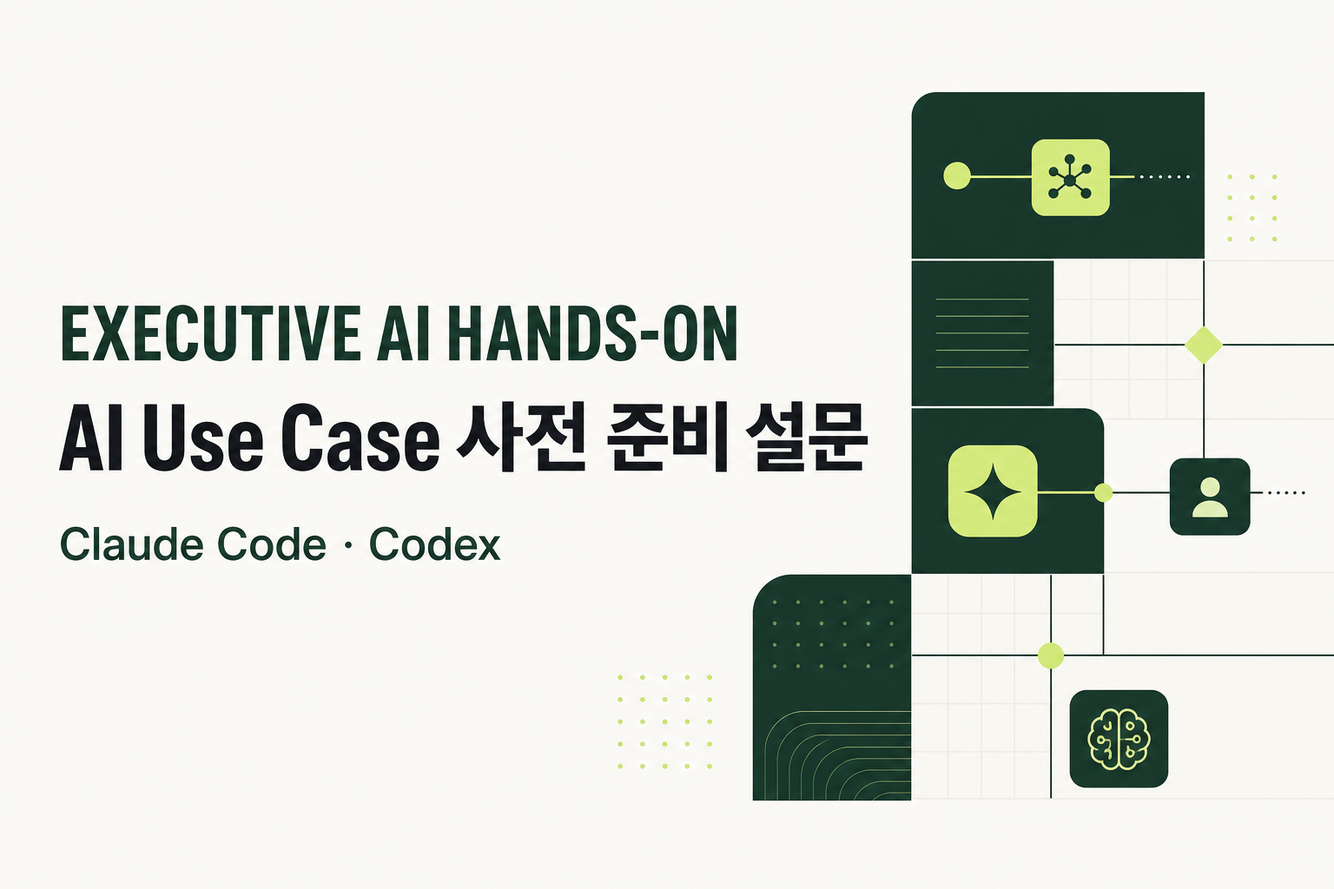
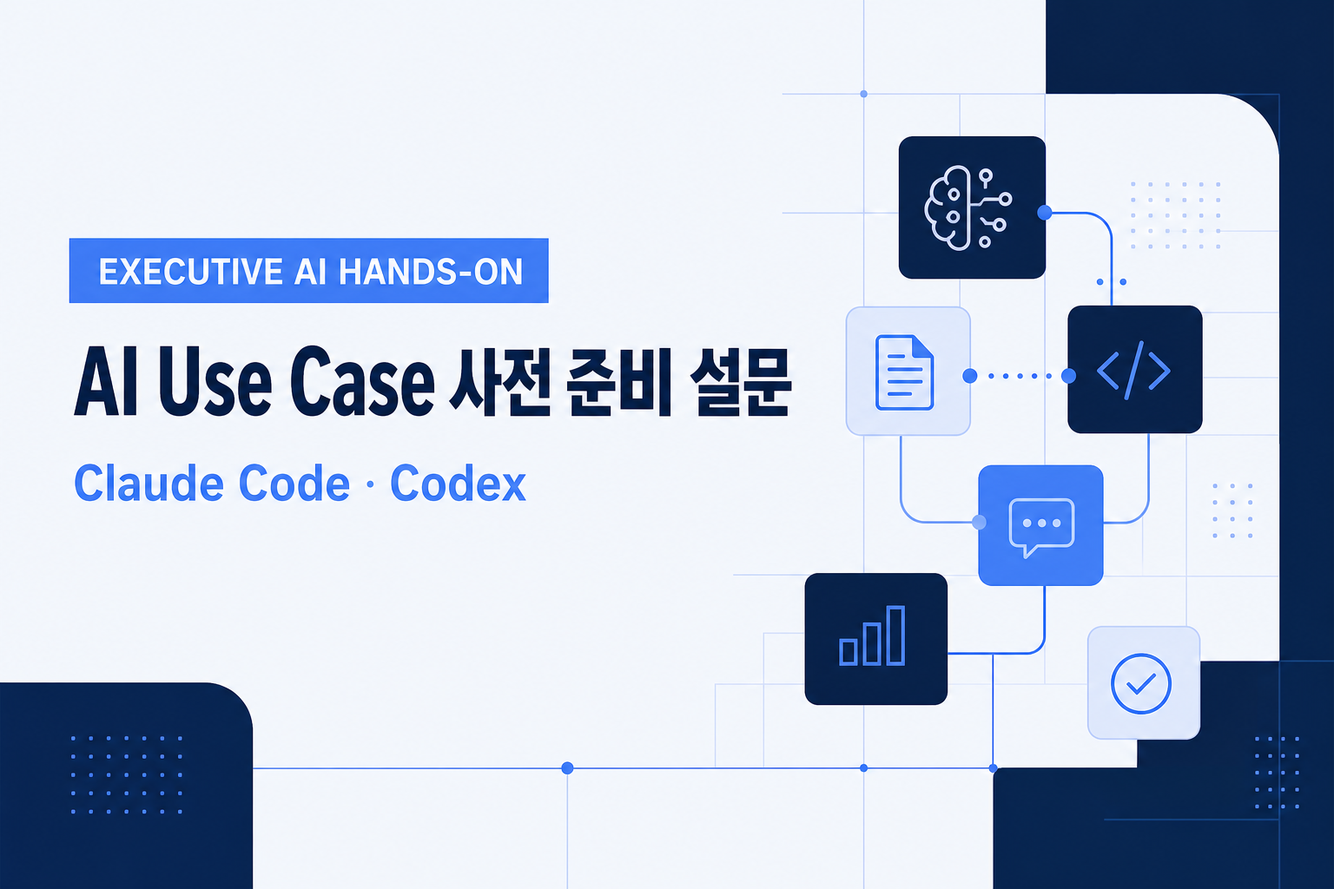
Refine survey flow and adopt blue visual theme

diff --git a/app/globals.css b/app/globals.css
@@ -1,47 +1,45 @@
 @import "tailwindcss";
 
-:root { --ink:#132323; --muted:#60706f; --line:#dce3df; --paper:#f5f7f3; --white:#fff; --lime:#c8f65a; --lime-dark:#a7d93a; --forest:#193b32; --error:#b42318; }
+:root { --ink:#0d1b34; --muted:#60708a; --line:#d9e2f0; --paper:#f3f6fb; --white:#fff; --accent:#5d8cff; --accent-soft:#eaf0ff; --navy:#102a56; --navy-deep:#0a1c3d; --error:#b42318; }
 * { box-sizing:border-box; }
 html { scroll-behavior:smooth; }
 body { margin:0; background:var(--paper); color:var(--ink); font-family:Arial,"Apple SD Gothic Neo","Noto Sans KR",sans-serif; }
 button,input,select,textarea { font:inherit; }
 button { cursor:pointer; }
-.site-header { height:78px; padding:0 clamp(24px,5vw,80px); display:flex; align-items:center; gap:12px; border-bottom:1px solid var(--line); background:rgba(245,247,243,.94); }
-.brand-mark { width:34px; height:34px; display:grid; place-items:center; border-radius:8px; background:var(--forest); color:var(--lime); font-weight:900; font-size:17px; }
+.site-header { height:78px; padding:0 clamp(24px,5vw,80px); display:flex; align-items:center; gap:12px; border-bottom:1px solid var(--line); background:rgba(243,246,251,.94); }
+.brand-mark { width:34px; height:34px; display:grid; place-items:center; border-radius:8px; background:var(--navy); color:#b9ceff; font-weight:900; font-size:17px; }
 .brand-name { margin:0; font-size:12px; font-weight:800; letter-spacing:.14em; }
 .brand-sub { margin:2px 0 0; color:var(--muted); font-size:12px; }
-.time-badge { margin-left:auto; padding:7px 12px; border:1px solid #cdd6d1; border-radius:999px; color:#42514f; font-size:12px; font-weight:700; }
+.time-badge { margin-left:auto; padding:7px 12px; border:1px solid #cbd7ea; border-radius:999px; color:#425474; font-size:12px; font-weight:700; }
 .page-shell { max-width:1420px; min-height:calc(100vh - 78px); margin:0 auto; display:grid; grid-template-columns:minmax(340px,.82fr) minmax(560px,1.18fr); }
 .intro-panel { position:sticky; top:0; align-self:start; min-height:calc(100vh - 78px); padding:clamp(56px,7vw,108px) clamp(36px,6vw,92px); border-right:1px solid var(--line); display:flex; flex-direction:column; justify-content:center; }
-.eyebrow { margin:0 0 18px; color:#557626; font-size:11px; font-weight:900; letter-spacing:.18em; }
+.eyebrow { margin:0 0 18px; color:#416fc7; font-size:11px; font-weight:900; letter-spacing:.18em; }
 .intro-panel h1 { margin:0; max-width:590px; font-size:clamp(38px,4.5vw,66px); line-height:1.08; letter-spacing:-.052em; }
-.intro-panel h1 em { color:#466b19; font-style:normal; }
-.intro-copy { max-width:590px; margin:30px 0 34px; color:#52615f; font-size:16px; line-height:1.8; word-break:keep-all; }
-.guide-card { display:flex; gap:15px; align-items:flex-start; padding:20px; border:1px solid #d9e5cd; border-radius:16px; background:#eff7df; }
-.guide-icon { flex:0 0 32px; width:32px; height:32px; display:grid; place-items:center; border-radius:9px; background:var(--lime); color:#284215; }
-.guide-card strong { font-size:14px; }.guide-card p { margin:6px 0 0; color:#526451; font-size:13px; line-height:1.55; }
-.privacy-note { display:flex; gap:10px; margin-top:22px; color:#7a8785; font-size:12px; line-height:1.55; }.privacy-note p { margin:0; }
+.intro-panel h1 em { color:#3266c4; font-style:normal; }
+.intro-copy { max-width:590px; margin:30px 0 32px; color:#586982; font-size:16px; line-height:1.8; word-break:keep-all; }
+.privacy-note { display:flex; gap:10px; padding-top:22px; border-top:1px solid #dbe4f2; color:#78869c; font-size:12px; line-height:1.55; }.privacy-note p { margin:0; }
 .form-panel { padding:clamp(42px,6vw,86px) clamp(32px,6vw,88px); background:var(--white); }
 .progress-head { display:flex; justify-content:space-between; align-items:end; }.progress-head div { display:grid; gap:6px; }.progress-head span { color:#71807e; font-size:10px; font-weight:800; letter-spacing:.16em; }.progress-head strong { font-size:14px; }.progress-head b { font-size:12px; color:#5f6e6b; }
-.progress-track { height:4px; margin-top:16px; overflow:hidden; border-radius:99px; background:#edf0ee; }.progress-track div { height:100%; border-radius:99px; background:var(--forest); transition:width .35s ease; }
+.progress-track { height:4px; margin-top:16px; overflow:hidden; border-radius:99px; background:#e9eef6; }.progress-track div { height:100%; border-radius:99px; background:var(--navy); transition:width .35s ease; }
 .step-content { display:grid; gap:26px; padding:48px 0 16px; animation:fade .28s ease; } @keyframes fade { from{opacity:.25;transform:translateY(7px)}to{opacity:1;transform:none} }
 .section-heading { margin-bottom:2px; }.section-heading h2 { margin:0; font-size:clamp(25px,2.6vw,34px); letter-spacing:-.035em; }.section-heading p { margin:10px 0 0; color:var(--muted); font-size:14px; line-height:1.6; }
 .two-col { display:grid; grid-template-columns:1fr 1fr; gap:18px; }
-label { display:block; }.field-label { display:flex; align-items:center; gap:8px; margin-bottom:9px; font-size:13px; font-weight:800; }.field-label small { color:#81908e; font-weight:500; }.required,.optional { padding:2px 6px; border-radius:5px; font-size:9px; }.required { color:#47621f; background:#edf7d8; }.optional { color:#7b8785; background:#f0f2f1; }
-input,select,textarea { width:100%; border:1px solid #ccd5d1; border-radius:11px; background:#fff; color:var(--ink); outline:none; transition:border-color .18s,box-shadow .18s; }
+label { display:block; }.field-label { display:flex; align-items:center; gap:8px; margin-bottom:9px; font-size:13px; font-weight:800; }.field-label small { color:#8190a8; font-weight:500; }.required,.optional { padding:2px 6px; border-radius:5px; font-size:9px; }.required { color:#2856aa; background:#e9f0ff; }.optional { color:#7b8799; background:#f0f3f7; }
+input,select,textarea { width:100%; border:1px solid #cbd6e7; border-radius:11px; background:#fff; color:var(--ink); outline:none; transition:border-color .18s,box-shadow .18s; }
 input,select { height:50px; padding:0 14px; } textarea { min-height:96px; padding:14px; line-height:1.6; resize:vertical; }.large-textarea { min-height:142px; }
-input:focus,select:focus,textarea:focus { border-color:#668b2c; box-shadow:0 0 0 3px rgba(147,190,65,.15); } input::placeholder,textarea::placeholder { color:#9aa5a2; }
+input:focus,select:focus,textarea:focus { border-color:#4f7fe0; box-shadow:0 0 0 3px rgba(79,127,224,.14); } input::placeholder,textarea::placeholder { color:#9aa6b7; }
+.conditional-input { margin-top:10px; background:#f8faff; }
 .char-count { display:block; margin-top:6px; text-align:right; color:#899592; font-size:11px; }
-.mini-tip { display:flex; align-items:flex-start; gap:10px; padding:16px; border-radius:12px; background:#f4f6f3; }.mini-tip b { padding:3px 6px; border-radius:4px; background:#223f37; color:#fff; font-size:9px; letter-spacing:.08em; }.mini-tip p { margin:0; color:#61706e; font-size:12px; line-height:1.55; }
-fieldset { margin:0; padding:0; border:0; }.choice-list,.choice-grid { display:grid; gap:9px; }.choice-grid { grid-template-columns:1fr 1fr; }.radio-card { position:relative; min-height:48px; padding:14px 15px; border:1px solid #d5dcd9; border-radius:11px; color:#42514f; font-size:13px; font-weight:600; }.radio-card input { position:absolute; opacity:0; width:1px; height:1px; }.radio-card.selected { border-color:#5a7f28; background:#f1f8e3; color:#294417; box-shadow:inset 0 0 0 1px #7aa63a; }
-.chip-grid { display:flex; flex-wrap:wrap; gap:9px; }.check-chip { position:relative; padding:10px 14px; border:1px solid #d4dcd8; border-radius:999px; color:#51605e; font-size:13px; }.check-chip input { position:absolute; opacity:0; width:1px; height:1px; }.check-chip.selected { border-color:#345b31; background:#203e35; color:#fff; }.check-chip:has(input:disabled) { opacity:.45; }
-.usecase-heading { display:flex; justify-content:space-between; gap:18px; align-items:flex-start; }.example-button { flex:none; padding:11px 13px; border:1px solid #bfd88b; border-radius:9px; background:#f2f9e4; color:#42631e; font-size:12px; font-weight:800; }
-.form-actions { display:flex; justify-content:flex-end; gap:10px; margin-top:28px; padding-top:25px; border-top:1px solid #e5e9e7; }.primary-button,.back-button,.secondary-button { min-height:50px; padding:0 21px; border-radius:10px; font-weight:800; }.primary-button { margin-left:auto; border:0; background:var(--forest); color:#fff; }.primary-button span { margin-left:14px; color:var(--lime); }.primary-button:hover { background:#102d26; }.primary-button:disabled { cursor:wait; opacity:.7; }.back-button,.secondary-button { border:1px solid #cfd7d3; background:#fff; color:#4d5d5a; }.submit-button { min-width:185px; }
+.mini-tip { display:flex; align-items:flex-start; gap:10px; padding:16px; border-radius:12px; background:#f2f5fa; }.mini-tip b { padding:3px 6px; border-radius:4px; background:var(--navy); color:#fff; font-size:9px; letter-spacing:.08em; }.mini-tip p { margin:0; color:#61708a; font-size:12px; line-height:1.55; }
+fieldset { margin:0; padding:0; border:0; }.choice-list,.choice-grid { display:grid; gap:9px; }.choice-grid { grid-template-columns:1fr 1fr; }.radio-card { position:relative; min-height:48px; padding:14px 15px; border:1px solid #d3ddea; border-radius:11px; color:#43536e; font-size:13px; font-weight:600; }.radio-card input { position:absolute; opacity:0; width:1px; height:1px; }.radio-card.selected { border-color:#4677d7; background:#edf3ff; color:#173f86; box-shadow:inset 0 0 0 1px #6e98e9; }
+.chip-grid { display:flex; flex-wrap:wrap; gap:9px; }.check-chip { position:relative; padding:10px 14px; border:1px solid #d3ddea; border-radius:999px; color:#51617c; font-size:13px; }.check-chip input { position:absolute; opacity:0; width:1px; height:1px; }.check-chip.selected { border-color:#244e9a; background:var(--navy); color:#fff; }.check-chip:has(input:disabled) { opacity:.45; }
+.usecase-heading { display:flex; justify-content:space-between; gap:18px; align-items:flex-start; }.example-button { flex:none; padding:11px 13px; border:1px solid #b8cdf6; border-radius:9px; background:#edf3ff; color:#285bb8; font-size:12px; font-weight:800; }
+.form-actions { display:flex; justify-content:flex-end; gap:10px; margin-top:28px; padding-top:25px; border-top:1px solid #e3e9f2; }.primary-button,.back-button,.secondary-button { min-height:50px; padding:0 21px; border-radius:10px; font-weight:800; }.primary-button { margin-left:auto; border:0; background:var(--navy); color:#fff; }.primary-button span { margin-left:14px; color:#b9ceff; }.primary-button:hover { background:var(--navy-deep); }.primary-button:disabled { cursor:wait; opacity:.7; }.back-button,.secondary-button { border:1px solid #cbd6e7; background:#fff; color:#4d5e78; }.submit-button { min-width:185px; }
 .form-error,.retry-note { margin:14px 0 0; color:var(--error); font-size:12px; font-weight:700; }.retry-note { padding:12px 14px; border-radius:8px; background:#fff1f0; }
-.loading-notice { display:flex; gap:14px; align-items:center; margin:18px 0 0; padding:16px; border:1px solid #cfe2a6; border-radius:12px; background:#f4fae8; }.loading-notice strong { font-size:13px; }.loading-notice p { margin:4px 0 0; color:#637056; font-size:11px; }.spinner { width:25px; height:25px; flex:0 0 25px; border:3px solid #dce9c2; border-top-color:#496c20; border-radius:50%; animation:spin .8s linear infinite; } @keyframes spin { to{transform:rotate(360deg)} }
+.loading-notice { display:flex; gap:14px; align-items:center; margin:18px 0 0; padding:16px; border:1px solid #bfd0f0; border-radius:12px; background:#edf3ff; }.loading-notice strong { font-size:13px; }.loading-notice p { margin:4px 0 0; color:#60718d; font-size:11px; }.spinner { width:25px; height:25px; flex:0 0 25px; border:3px solid #d6e1f6; border-top-color:#3465c2; border-radius:50%; animation:spin .8s linear infinite; } @keyframes spin { to{transform:rotate(360deg)} }
 .honeypot { position:absolute!important; left:-9999px!important; }
-.modal-backdrop { position:fixed; inset:0; z-index:20; display:grid; place-items:center; padding:24px; background:rgba(11,29,25,.64); backdrop-filter:blur(5px); }.example-modal { width:min(860px,100%); max-height:86vh; overflow:auto; padding:30px; border-radius:20px; background:#fff; box-shadow:0 30px 100px rgba(0,0,0,.28); }.modal-head { display:flex; justify-content:space-between; gap:20px; }.modal-head h2 { margin:0; font-size:28px; }.modal-head p:not(.eyebrow) { margin:8px 0 0; color:var(--muted); font-size:13px; }.modal-head button { width:38px; height:38px; border:0; border-radius:50%; background:#eef1ef; color:#43514f; font-size:24px; }.example-list { display:grid; grid-template-columns:1fr 1fr; gap:12px; margin-top:25px; }.example-card { padding:18px; border:1px solid #dce3df; border-radius:13px; background:#fff; text-align:left; transition:.18s; }.example-card:hover { border-color:#87a94d; background:#f7faef; transform:translateY(-2px); }.example-card span { color:#638332; font-size:10px; font-weight:900; }.example-card strong { display:block; margin:8px 0; font-size:15px; }.example-card p { margin:0; color:#657270; font-size:12px; line-height:1.55; }.example-card em { display:block; margin-top:13px; color:#34571b; font-size:11px; font-style:normal; font-weight:800; }
-.success-page { min-height:100vh; display:grid; place-items:center; padding:32px; background:radial-gradient(circle at 50% 20%,#f4fadf,#edf2eb 52%,#e6ece8); }.success-card { width:min(680px,100%); padding:60px; border:1px solid #d8e0db; border-radius:24px; background:#fff; text-align:center; box-shadow:0 24px 80px rgba(27,54,46,.1); }.success-mark { width:58px; height:58px; margin:0 auto 25px; display:grid; place-items:center; border-radius:50%; background:var(--lime); color:#264414; font-size:26px; font-weight:900; }.success-card h1 { margin:0; font-size:38px; letter-spacing:-.04em; }.success-copy { max-width:530px; margin:18px auto 28px; color:#667471; line-height:1.7; }.prep-grid { display:grid; grid-template-columns:1fr 1fr; gap:12px; margin-bottom:28px; text-align:left; }.prep-grid div { padding:19px; border-radius:12px; background:#f3f6f1; }.prep-grid span { color:#668533; font-size:10px; font-weight:900; }.prep-grid p { margin:8px 0 0; font-size:13px; line-height:1.5; }
+.modal-backdrop { position:fixed; inset:0; z-index:20; display:grid; place-items:center; padding:24px; background:rgba(8,23,52,.66); backdrop-filter:blur(5px); }.example-modal { width:min(860px,100%); max-height:86vh; overflow:auto; padding:30px; border-radius:20px; background:#fff; box-shadow:0 30px 100px rgba(0,0,0,.28); }.modal-head { display:flex; justify-content:space-between; gap:20px; }.modal-head h2 { margin:0; font-size:28px; }.modal-head p:not(.eyebrow) { margin:8px 0 0; color:var(--muted); font-size:13px; }.modal-head button { width:38px; height:38px; border:0; border-radius:50%; background:#edf1f7; color:#43536d; font-size:24px; }.example-list { display:grid; grid-template-columns:1fr 1fr; gap:12px; margin-top:25px; }.example-card { padding:18px; border:1px solid #d9e2ef; border-radius:13px; background:#fff; text-align:left; transition:.18s; }.example-card:hover { border-color:#6f96e2; background:#f3f7ff; transform:translateY(-2px); }.example-card span { color:#426fc4; font-size:10px; font-weight:900; }.example-card strong { display:block; margin:8px 0; font-size:15px; }.example-card p { margin:0; color:#65738a; font-size:12px; line-height:1.55; }.example-card em { display:block; margin-top:13px; color:#2858ac; font-size:11px; font-style:normal; font-weight:800; }
+.success-page { min-height:100vh; display:grid; place-items:center; padding:32px; background:radial-gradient(circle at 50% 20%,#edf3ff,#edf2f8 52%,#e7edf6); }.success-card { width:min(680px,100%); padding:60px; border:1px solid #d6e0ef; border-radius:24px; background:#fff; text-align:center; box-shadow:0 24px 80px rgba(18,43,86,.1); }.success-mark { width:58px; height:58px; margin:0 auto 25px; display:grid; place-items:center; border-radius:50%; background:#dce7ff; color:#204f9f; font-size:26px; font-weight:900; }.success-card h1 { margin:0; font-size:38px; letter-spacing:-.04em; }.success-copy { max-width:530px; margin:18px auto 28px; color:#66758d; line-height:1.7; }.prep-grid { display:grid; grid-template-columns:1fr 1fr; gap:12px; margin-bottom:28px; text-align:left; }.prep-grid div { padding:19px; border-radius:12px; background:#f1f5fb; }.prep-grid span { color:#4775c8; font-size:10px; font-weight:900; }.prep-grid p { margin:8px 0 0; font-size:13px; line-height:1.5; }
 @media (max-width:980px){.page-shell{grid-template-columns:1fr}.intro-panel{position:static;min-height:auto;border-right:0;border-bottom:1px solid var(--line);padding:55px 32px}.intro-panel h1{font-size:44px}.form-panel{padding:46px 32px 70px}}
 @media (max-width:640px){.site-header{height:66px;padding:0 18px}.brand-name{font-size:10px}.brand-sub{display:none}.time-badge{font-size:10px}.intro-panel{padding:42px 20px}.intro-panel h1{font-size:36px}.intro-copy{font-size:14px}.form-panel{padding:34px 20px 52px}.step-content{padding-top:38px}.two-col,.choice-grid,.example-list,.prep-grid{grid-template-columns:1fr}.usecase-heading{display:block}.example-button{margin-top:16px}.example-modal{padding:22px}.modal-head h2{font-size:23px}.success-card{padding:42px 22px}.success-card h1{font-size:30px}}
 @media (prefers-reduced-motion:reduce){*{scroll-behavior:auto!important;animation:none!important;transition:none!important}}

diff --git a/app/page.tsx b/app/page.tsx
@@ -10,7 +10,7 @@ const businessAreas = [
   "재무·리스크",
   "HR·조직",
   "R&D·데이터",
-  "기타",
+  "직접입력",
 ];
 
 const examples = [
@@ -64,14 +64,15 @@ type FormState = {
   title: string;
   email: string;
   aiExperience: string;
-  agentPreference: string;
   businessAreas: string[];
+  businessAreaOther: string;
   primaryOutcome: string;
+  primaryOutcomeOther: string;
   usecaseTitle: string;
   usecaseDescription: string;
   currentPain: string;
   desiredOutput: string;
-  availableDataTools: string;
+  desiredOutputOther: string;
   dataSensitivity: string;
   successCriteria: string;
   instructorNote: string;
@@ -84,14 +85,15 @@ const initialForm: FormState = {
   title: "",
   email: "",
   aiExperience: "",
-  agentPreference: "",
   businessAreas: [],
+  businessAreaOther: "",
   primaryOutcome: "",
+  primaryOutcomeOther: "",
   usecaseTitle: "",
   usecaseDescription: "",
   currentPain: "",
   desiredOutput: "",
-  availableDataTools: "",
+  desiredOutputOther: "",
   dataSensitivity: "",
   successCriteria: "",
   instructorNote: "",
@@ -137,14 +139,17 @@ export default function Home() {
     if (step === 2)
       return Boolean(
         form.aiExperience &&
-          form.agentPreference &&
           form.businessAreas.length &&
-          form.primaryOutcome,
+          (!form.businessAreas.includes("직접입력") || form.businessAreaOther.trim()) &&
+          form.primaryOutcome &&
+          (form.primaryOutcome !== "직접입력" || form.primaryOutcomeOther.trim()),
       );
     return Boolean(
       form.usecaseTitle &&
+        form.currentPain.trim() &&
         form.usecaseDescription.length >= 20 &&
         form.desiredOutput &&
+        (form.desiredOutput !== "직접입력" || form.desiredOutputOther.trim()) &&
         form.dataSensitivity &&
         form.successCriteria,
     );
@@ -180,7 +185,12 @@ export default function Home() {
       const response = await fetch("/api/submit", {
         method: "POST",
         headers: { "Content-Type": "application/json" },
-        body: JSON.stringify(form),
+        body: JSON.stringify({
+          ...form,
+          businessAreas: form.businessAreas.map((area) => area === "직접입력" ? form.businessAreaOther.trim() : area),
+          primaryOutcome: form.primaryOutcome === "직접입력" ? form.primaryOutcomeOther.trim() : form.primaryOutcome,
+          desiredOutput: form.desiredOutput === "직접입력" ? form.desiredOutputOther.trim() : form.desiredOutput,
+        }),
       });
       const result = (await response.json()) as { ok?: boolean; message?: string };
       if (!response.ok || !result.ok) throw new Error(result.message || "응답 저장에 실패했습니다.");
@@ -229,15 +239,11 @@ export default function Home() {
       <div className="page-shell">
         <section className="intro-panel">
           <p className="eyebrow">MAKE YOUR OWN AI AGENT</p>
-          <h1>이번 세션에서 직접 만들고 싶은<br /><em>AI Use Case</em>를 알려주세요.</h1>
+          <h1>직접 만들고 싶은 <em>AI Use Case</em>를 알려주세요.</h1>
           <p className="intro-copy">
             정답을 찾는 설문이 아닙니다. 지금 떠오르는 업무 장면을 알려주시면,
-            Claude Code와 Codex로 직접 구현해 볼 수 있도록 강사가 미리 준비하겠습니다.
+            구현해 볼 수 있도록 강사가 미리 준비하겠습니다.
           </p>
-          <div className="guide-card">
-            <div className="guide-icon">✦</div>
-            <div><strong>좋은 주제의 기준</strong><p>반복적이거나, 자료가 흩어져 있거나, 판단 전에 정리가 필요한 업무</p></div>
-          </div>
           <div className="privacy-note"><span>🔒</span><p>작성 내용은 핸즈온 준비 목적으로만 활용됩니다. 실제 기밀 정보 대신 자료의 종류만 적어주세요.</p></div>
         </section>
 
@@ -257,7 +263,7 @@ export default function Home() {
                   <label><FieldLabel>소속 / 회사</FieldLabel><input value={form.company} onChange={(e) => update("company", e.target.value)} placeholder="예: ABC 그룹" autoComplete="organization" /></label>
                 </div>
                 <div className="two-col">
-                  <label><FieldLabel>직책</FieldLabel><input value={form.title} onChange={(e) => update("title", e.target.value)} placeholder="예: 대표이사, 본부장" autoComplete="organization-title" /></label>
+                  <label><FieldLabel>직무</FieldLabel><input value={form.title} onChange={(e) => update("title", e.target.value)} placeholder="예: 인사, 마케팅, 전략기획" autoComplete="organization-title" /></label>
                   <label><FieldLabel optional>이메일</FieldLabel><input type="email" value={form.email} onChange={(e) => update("email", e.target.value)} placeholder="name@company.com" autoComplete="email" /></label>
                 </div>
                 <div className="mini-tip"><b>TIP</b><p>코딩 경험은 필요하지 않습니다. 평소 해결하고 싶었던 업무 한 가지면 충분합니다.</p></div>
@@ -268,15 +274,12 @@ export default function Home() {
               <div className="step-content">
                 <div className="section-heading"><h2>어떤 업무에 AI를 적용하고 싶으신가요?</h2><p>가장 가까운 항목을 편하게 선택해 주세요.</p></div>
                 <fieldset><FieldLabel>생성형 AI 활용 경험</FieldLabel><div className="choice-list">
-                  {["거의 사용해 본 적 없음", "요약·검색 등에 가끔 사용", "업무용 프롬프트를 직접 실험", "정기적으로 업무에 활용"].map((item) => <label className={`radio-card ${form.aiExperience === item ? "selected" : ""}`} key={item}><input type="radio" name="experience" value={item} checked={form.aiExperience === item} onChange={() => update("aiExperience", item)} /><span>{item}</span></label>)}
-                </div></fieldset>
-                <fieldset><FieldLabel>이번에 사용해 보고 싶은 에이전트</FieldLabel><div className="choice-grid">
-                  {["Claude Code", "Codex", "둘 다 비교해 보고 싶음", "강사 추천에 따름"].map((item) => <label className={`radio-card ${form.agentPreference === item ? "selected" : ""}`} key={item}><input type="radio" name="agent" checked={form.agentPreference === item} onChange={() => update("agentPreference", item)} /><span>{item}</span></label>)}
+                  {["거의 사용해 본 적 없음", "요약·검색 등에 가끔 사용", "정기적으로 업무에 활용", "AI Agent 활용 경험 있음(Claude Code, Codex)"].map((item) => <label className={`radio-card ${form.aiExperience === item ? "selected" : ""}`} key={item}><input type="radio" name="experience" value={item} checked={form.aiExperience === item} onChange={() => update("aiExperience", item)} /><span>{item}</span></label>)}
                 </div></fieldset>
                 <fieldset><FieldLabel>관심 업무 영역 <small>최대 3개</small></FieldLabel><div className="chip-grid">
                   {businessAreas.map((area) => <label className={`check-chip ${form.businessAreas.includes(area) ? "selected" : ""}`} key={area}><input type="checkbox" checked={form.businessAreas.includes(area)} onChange={() => toggleArea(area)} disabled={!form.businessAreas.includes(area) && form.businessAreas.length >= 3} /><span>{area}</span></label>)}
-                </div></fieldset>
-                <label><FieldLabel>AI를 통해 가장 얻고 싶은 결과</FieldLabel><select value={form.primaryOutcome} onChange={(e) => update("primaryOutcome", e.target.value)}><option value="">선택해 주세요</option><option>의사결정 속도 향상</option><option>반복 업무 시간 절감</option><option>보고서·콘텐츠 품질 향상</option><option>리스크·누락 사전 발견</option><option>새로운 고객·사업 기회 발굴</option></select></label>
+                </div>{form.businessAreas.includes("직접입력") && <input className="conditional-input" value={form.businessAreaOther} onChange={(e) => update("businessAreaOther", e.target.value)} placeholder="관심 업무 영역을 직접 입력해 주세요" autoFocus />}</fieldset>
+                <label><FieldLabel>AI를 통해 가장 얻고 싶은 결과</FieldLabel><select value={form.primaryOutcome} onChange={(e) => update("primaryOutcome", e.target.value)}><option value="">선택해 주세요</option><option>의사결정 속도 향상</option><option>반복 업무 시간 절감</option><option>보고서·콘텐츠 품질 향상</option><option>리스크·누락 사전 발견</option><option>새로운 고객·사업 기회 발굴</option><option>직접입력</option></select>{form.primaryOutcome === "직접입력" && <input className="conditional-input" value={form.primaryOutcomeOther} onChange={(e) => update("primaryOutcomeOther", e.target.value)} placeholder="원하는 결과를 직접 입력해 주세요" autoFocus />}</label>
               </div>
             )}
 
@@ -284,13 +287,12 @@ export default function Home() {
               <div className="step-content">
                 <div className="section-heading usecase-heading"><div><h2>만들고 싶은 Use Case를 구체화해 주세요.</h2><p>완벽하게 쓰지 않아도 괜찮습니다. 예시를 골라 수정해도 됩니다.</p></div><button type="button" className="example-button" onClick={() => setShowExamples(true)}>✦ 작성 예시 보기</button></div>
                 <label><FieldLabel>Use Case 제목</FieldLabel><input value={form.usecaseTitle} onChange={(e) => update("usecaseTitle", e.target.value)} placeholder="예: 주간 경영회의 의사결정 브리프 자동 작성" /></label>
+                <label><FieldLabel>현재 업무 방식에서 가장 불편한 점</FieldLabel><textarea value={form.currentPain} onChange={(e) => update("currentPain", e.target.value)} placeholder="예: 자료가 여러 파일에 흩어져 있고, 매주 취합과 요약에 3시간 이상 걸립니다." /></label>
                 <label><FieldLabel>어떤 업무를 어떻게 바꾸고 싶으신가요?</FieldLabel><textarea className="large-textarea" value={form.usecaseDescription} onChange={(e) => update("usecaseDescription", e.target.value)} placeholder="현재 어떤 자료를 보고, 누구와 어떤 판단을 하며, AI가 어느 부분을 도와주면 좋을지 적어주세요." /><span className="char-count">{form.usecaseDescription.length}자 · 최소 20자</span></label>
-                <label><FieldLabel optional>현재 업무 방식에서 가장 불편한 점</FieldLabel><textarea value={form.currentPain} onChange={(e) => update("currentPain", e.target.value)} placeholder="예: 자료가 여러 파일에 흩어져 있고, 매주 취합과 요약에 3시간 이상 걸립니다." /></label>
                 <div className="two-col">
-                  <label><FieldLabel>원하는 산출물</FieldLabel><select value={form.desiredOutput} onChange={(e) => update("desiredOutput", e.target.value)}><option value="">선택해 주세요</option><option>경영진 보고서·브리프</option><option>분석 리포트·대시보드</option><option>이메일·제안서·콘텐츠</option><option>점검표·액션 리스트</option><option>검색·질의응답 도구</option><option>반복 업무 자동화</option><option>기타</option></select></label>
+                  <label><FieldLabel>원하는 산출물</FieldLabel><select value={form.desiredOutput} onChange={(e) => update("desiredOutput", e.target.value)}><option value="">선택해 주세요</option><option>경영진 보고서·브리프</option><option>분석 리포트·대시보드</option><option>이메일·제안서·콘텐츠</option><option>점검표·액션 리스트</option><option>검색·질의응답 도구</option><option>반복 업무 자동화</option><option>직접입력</option></select>{form.desiredOutput === "직접입력" && <input className="conditional-input" value={form.desiredOutputOther} onChange={(e) => update("desiredOutputOther", e.target.value)} placeholder="원하는 산출물을 직접 입력해 주세요" autoFocus />}</label>
                   <label><FieldLabel>다룰 정보의 민감도</FieldLabel><select value={form.dataSensitivity} onChange={(e) => update("dataSensitivity", e.target.value)}><option value="">선택해 주세요</option><option>공개 가능한 정보</option><option>사내 일반 정보</option><option>민감 정보 포함 가능</option><option>잘 모르겠음</option></select></label>
                 </div>
-                <label><FieldLabel optional>활용 가능한 데이터·도구</FieldLabel><input value={form.availableDataTools} onChange={(e) => update("availableDataTools", e.target.value)} placeholder="예: Excel 실적표, 회의록, CRM, 사내 규정 PDF (자료명만 작성)" /></label>
                 <label><FieldLabel>성공했다고 판단할 기준</FieldLabel><input value={form.successCriteria} onChange={(e) => update("successCriteria", e.target.value)} placeholder="예: 주 3시간 절감, 핵심 리스크 누락 감소, 초안 품질 향상" /></label>
                 <label><FieldLabel optional>강사에게 미리 전하고 싶은 내용</FieldLabel><textarea value={form.instructorNote} onChange={(e) => update("instructorNote", e.target.value)} placeholder="실습 시 고려할 제약, 궁금한 점 등을 자유롭게 적어주세요." /></label>
                 <label className="honeypot" aria-hidden="true">웹사이트<input tabIndex={-1} autoComplete="off" value={form.website} onChange={(e) => update("website", e.target.value)} /></label>

diff --git a/app/api/submit/route.ts b/app/api/submit/route.ts
@@ -6,14 +6,12 @@ type SurveyPayload = {
   title?: string;
   email?: string;
   aiExperience?: string;
-  agentPreference?: string;
   businessAreas?: string[];
   primaryOutcome?: string;
   usecaseTitle?: string;
   usecaseDescription?: string;
   currentPain?: string;
   desiredOutput?: string;
-  availableDataTools?: string;
   dataSensitivity?: string;
   successCriteria?: string;
   instructorNote?: string;
@@ -28,7 +26,7 @@ export async function POST(request: Request) {
     const payload = (await request.json()) as SurveyPayload;
     if (payload.website) return NextResponse.json({ ok: true });
 
-    const required = [payload.name, payload.company, payload.title, payload.aiExperience, payload.agentPreference, payload.primaryOutcome, payload.usecaseTitle, payload.usecaseDescription, payload.desiredOutput, payload.dataSensitivity, payload.successCriteria];
+    const required = [payload.name, payload.company, payload.title, payload.aiExperience, payload.primaryOutcome, payload.usecaseTitle, payload.currentPain, payload.usecaseDescription, payload.desiredOutput, payload.dataSensitivity, payload.successCriteria];
     if (required.some((value) => !clean(value)) || !payload.businessAreas?.length || clean(payload.usecaseDescription).length < 20) {
       return NextResponse.json({ ok: false, message: "필수 항목을 확인해 주세요." }, { status: 400 });
     }
@@ -46,14 +44,14 @@ export async function POST(request: Request) {
       title: clean(payload.title, 100),
       email: clean(payload.email, 200),
       aiExperience: clean(payload.aiExperience, 100),
-      agentPreference: clean(payload.agentPreference, 100),
+      agentPreference: "",
       businessAreas: (payload.businessAreas || []).slice(0, 3).map((v) => clean(v, 60)).join(", "),
       primaryOutcome: clean(payload.primaryOutcome, 100),
       usecaseTitle: clean(payload.usecaseTitle, 250),
       usecaseDescription: clean(payload.usecaseDescription, 3000),
       currentPain: clean(payload.currentPain, 2000),
       desiredOutput: clean(payload.desiredOutput, 150),
-      availableDataTools: clean(payload.availableDataTools, 1500),
+      availableDataTools: "",
       dataSensitivity: clean(payload.dataSensitivity, 100),
       successCriteria: clean(payload.successCriteria, 1000),
       instructorNote: clean(payload.instructorNote, 1500),
